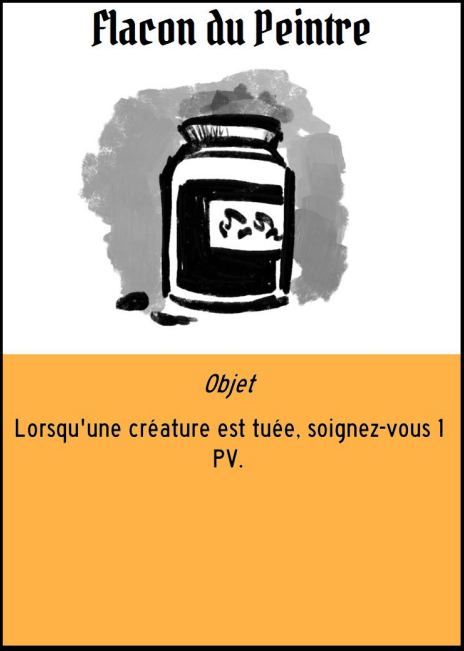
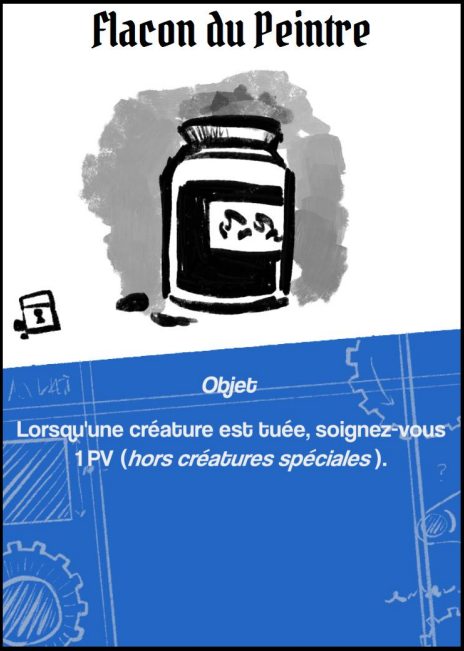
Update des images, surtout
insh

diff --git a/codexgalerie.html b/codexgalerie.html
@@ -88,16 +88,7 @@
 									<img class="image featured" src="images/codexgame/trappeur.png" alt="" />
 								</div>
 								<div class="col-6 col-12-mobile">
-									<img class="image featured" src="images/codexgame/neotenique.png" alt="" />
-								</div>
-							</div>
-
-							<div class="row">
-								<div class="col-6 col-12-mobile">
-									<img class="image featured" src="images/codexgame/mycophage.png" alt="" />
-								</div>
-								<div class="col-6 col-12-mobile">
-									<img class="image featured" src="images/codexgame/shamanbayou.png" alt="" />
+									<img class="image featured" src="images/codexgame/crachesuie.png" alt="" />
 								</div>
 							</div>
 
@@ -112,7 +103,38 @@
 
 							<div class="row">
 								<div class="col-6 col-12-mobile">
+									<img class="image featured" src="images/codexgame/suturreurchronyx.png" alt="" />
+								</div>
+								<div class="col-6 col-12-mobile">
+									<img class="image featured" src="images/codexgame/legionnairedencre.png" alt="" />
+								</div>
+							</div>
+
+							<div class="row">
+								<div class="col-6 col-12-mobile">
+									<img class="image featured" src="images/codexgame/herautdelachasse.png" alt="" />
+								</div>
+								<div class="col-6 col-12-mobile">
+									<img class="image featured" src="images/codexgame/pisteurdeguerre.png" alt="" />
+								</div>
+							</div>
+
+							<p></p>
+							<h2>Boss</h2>
+							<p></p>
+
+							<div class="row">
+								<div class="col-6 col-12-mobile">
 									<img class="image featured" src="images/codexgame/peintre.png" alt="" />
+								</div>
+								<div class="col-6 col-12-mobile">
+									<img class="image featured" src="images/codexgame/axiome.png" alt="" />
+								</div>
+							</div>
+
+							<div class="row">
+								<div class="col-6 col-12-mobile">
+									<img class="image featured" src="images/codexgame/baron.png" alt="" />
 								</div>
 								<div class="col-6 col-12-mobile">
 									<img class="image featured" src="images/codexgame/conqueror.png" alt="" />
@@ -128,16 +150,16 @@
 									<img class="image featured" src="images/codexgame/docks.png" alt="" />
 								</div>
 								<div class="col-6 col-12-mobile">
-									<img class="image featured" src="images/codexgame/place.png" alt="" />
+									<img class="image featured" src="images/codexgame/cache.png" alt="" />
 								</div>
 							</div>
 
 							<div class="row">
 								<div class="col-6 col-12-mobile">
-									<img class="image featured" src="images/codexgame/cache.png" alt="" />
+									<img class="image featured" src="images/codexgame/reservoirdeau.png" alt="" />
 								</div>
 								<div class="col-6 col-12-mobile">
-									<img class="image featured" src="images/codexgame/huttedelermite.png" alt="" />
+									<img class="image featured" src="images/codexgame/genericAct3.png" alt="" />
 								</div>
 							</div>
 
@@ -174,7 +196,7 @@
 									<img class="image featured" src="images/codexgame/legaliseur.png" alt="" />
 								</div>
 								<div class="col-4 col-12-mobile">
-									<img class="image featured" src="images/codexgame/masquedeviolence.png" alt="" />
+									<img class="image featured" src="images/codexgame/chronyximperial.png" alt="" />
 								</div>
 								<div class="col-4 col-12-mobile">
 									<img class="image featured" src="images/codexgame/orchideespectrale.png" alt="" />

diff --git a/index.html b/index.html
@@ -82,13 +82,13 @@
 
 					 <div class="row">
 						<div class="col-4 col-12-mobile">
-							<a href="dl/CODEX - Règles du jeu.pdf" download class="button">Règles de CODEX</a>
+							<a href="dl/CODEX - Règles du jeu.pdf" download class="button">Règles de CODEX<br>v2.3.1</a>
 						</div>
 						<div class="col-4 col-12-mobile">
-							<a href="dl/PrintNPlay - CODEX.zip" download class="button">Print'n'Play</a>
+							<a href="dl/PrintNPlay - CODEX.zip" download class="button">Print'n'Play<br>v2.3.1</a>
 						</div>
 						<div class="col-4 col-12-mobile">
-							<a href="https://steamcommunity.com/sharedfiles/filedetails/?id=2724748444" class="button">Tabletop Simulator</a>
+							<a href="https://steamcommunity.com/sharedfiles/filedetails/?id=2724748444" class="button">Tabletop Simulator<br>Premier Acte, v2.3.1</a>
 						</div>
 					</div>
 					<p> </p>
@@ -111,6 +111,16 @@
 						</div>
 						<div class="col-6 col-12-mobile">
 							<img class="image featured" src="images/codexgame/conqueror.png" alt="" />
+						</div>
+					</div>
+
+					<div class="row">
+						<div class="col-12">
+							<p>
+								<h3>Statut actuel (version 4.3.1 - 19/10/2022)</h3><br>
+								L'Acte III et tout le contenu associé est intégré et fonctionnel, et le jeu peut ainsi être joué jusqu'à sa fin pour la première fois. L'Acte II nécessite davantage d'équilibrage, mais d'après les premiers tests l'Acte III fonctionne conformément aux attentes. <br>
+								Si vous souhaitez participer à un test, n'hésitez pas à <a href="#contact" id="contact-link">me contacter !</a>
+							</p>
 						</div>
 					</div>
 				</section>

diff --git a/codexaleatoire.html b/codexaleatoire.html
@@ -84,6 +84,7 @@
 								</div>
 								<div class="col-4 col-12-mobile">
 									<img class="image featured" src="images/codexgame/oldchapelle.png" alt="" />
+									<p><i>Ancien design, les "Salles" sont devenues des "Zones"</i></p>
 								</div>
 							</div>
 
@@ -98,7 +99,7 @@
 
 							<div class="row">
 								<div class="col-4 col-12-mobile">
-									<img class="image featured" src="images/codexgame/trappeurcard.png" alt="" />
+									<img class="image featured" src="images/codexgame/trappeurnew.png" alt="" />
 								</div>
 								<div class="col-8 col-12-mobile">
 									<p class="sidecont">Les Créatures ont un peu changé également sur leur répartition. Par défaut, chaque Créature est présente en 2 exemplaires dans la pile, pour un total de 6 cartes uniques et 12 Créatures au total. Au début du prototype, l'Ermite Mycophage était une Créature en un seul exemplaire, supposé être une rencontre plus rare et plus difficile. Dans les faits, cela a juste creusé un gouffre entre les parties avec l'Ermite et les parties sans, qui étaient singulièrement plus simples. La solution a été de le retirer de la pile des Créatures normales, et il apparait désormais selon des conditions particulières que les joueurs peuvent déclencher si ils le souhaitent, en échange d'une récompense appropriée. Les Créatures individuelles ont reçu plusieurs ajustement durant leur cycle de vie, afin de s'assurer que toutes les combinaisons de créatures soient à peu près équivalentes en terme de difficulté, et d'éviter les écarts de difficulté importants.</p>
